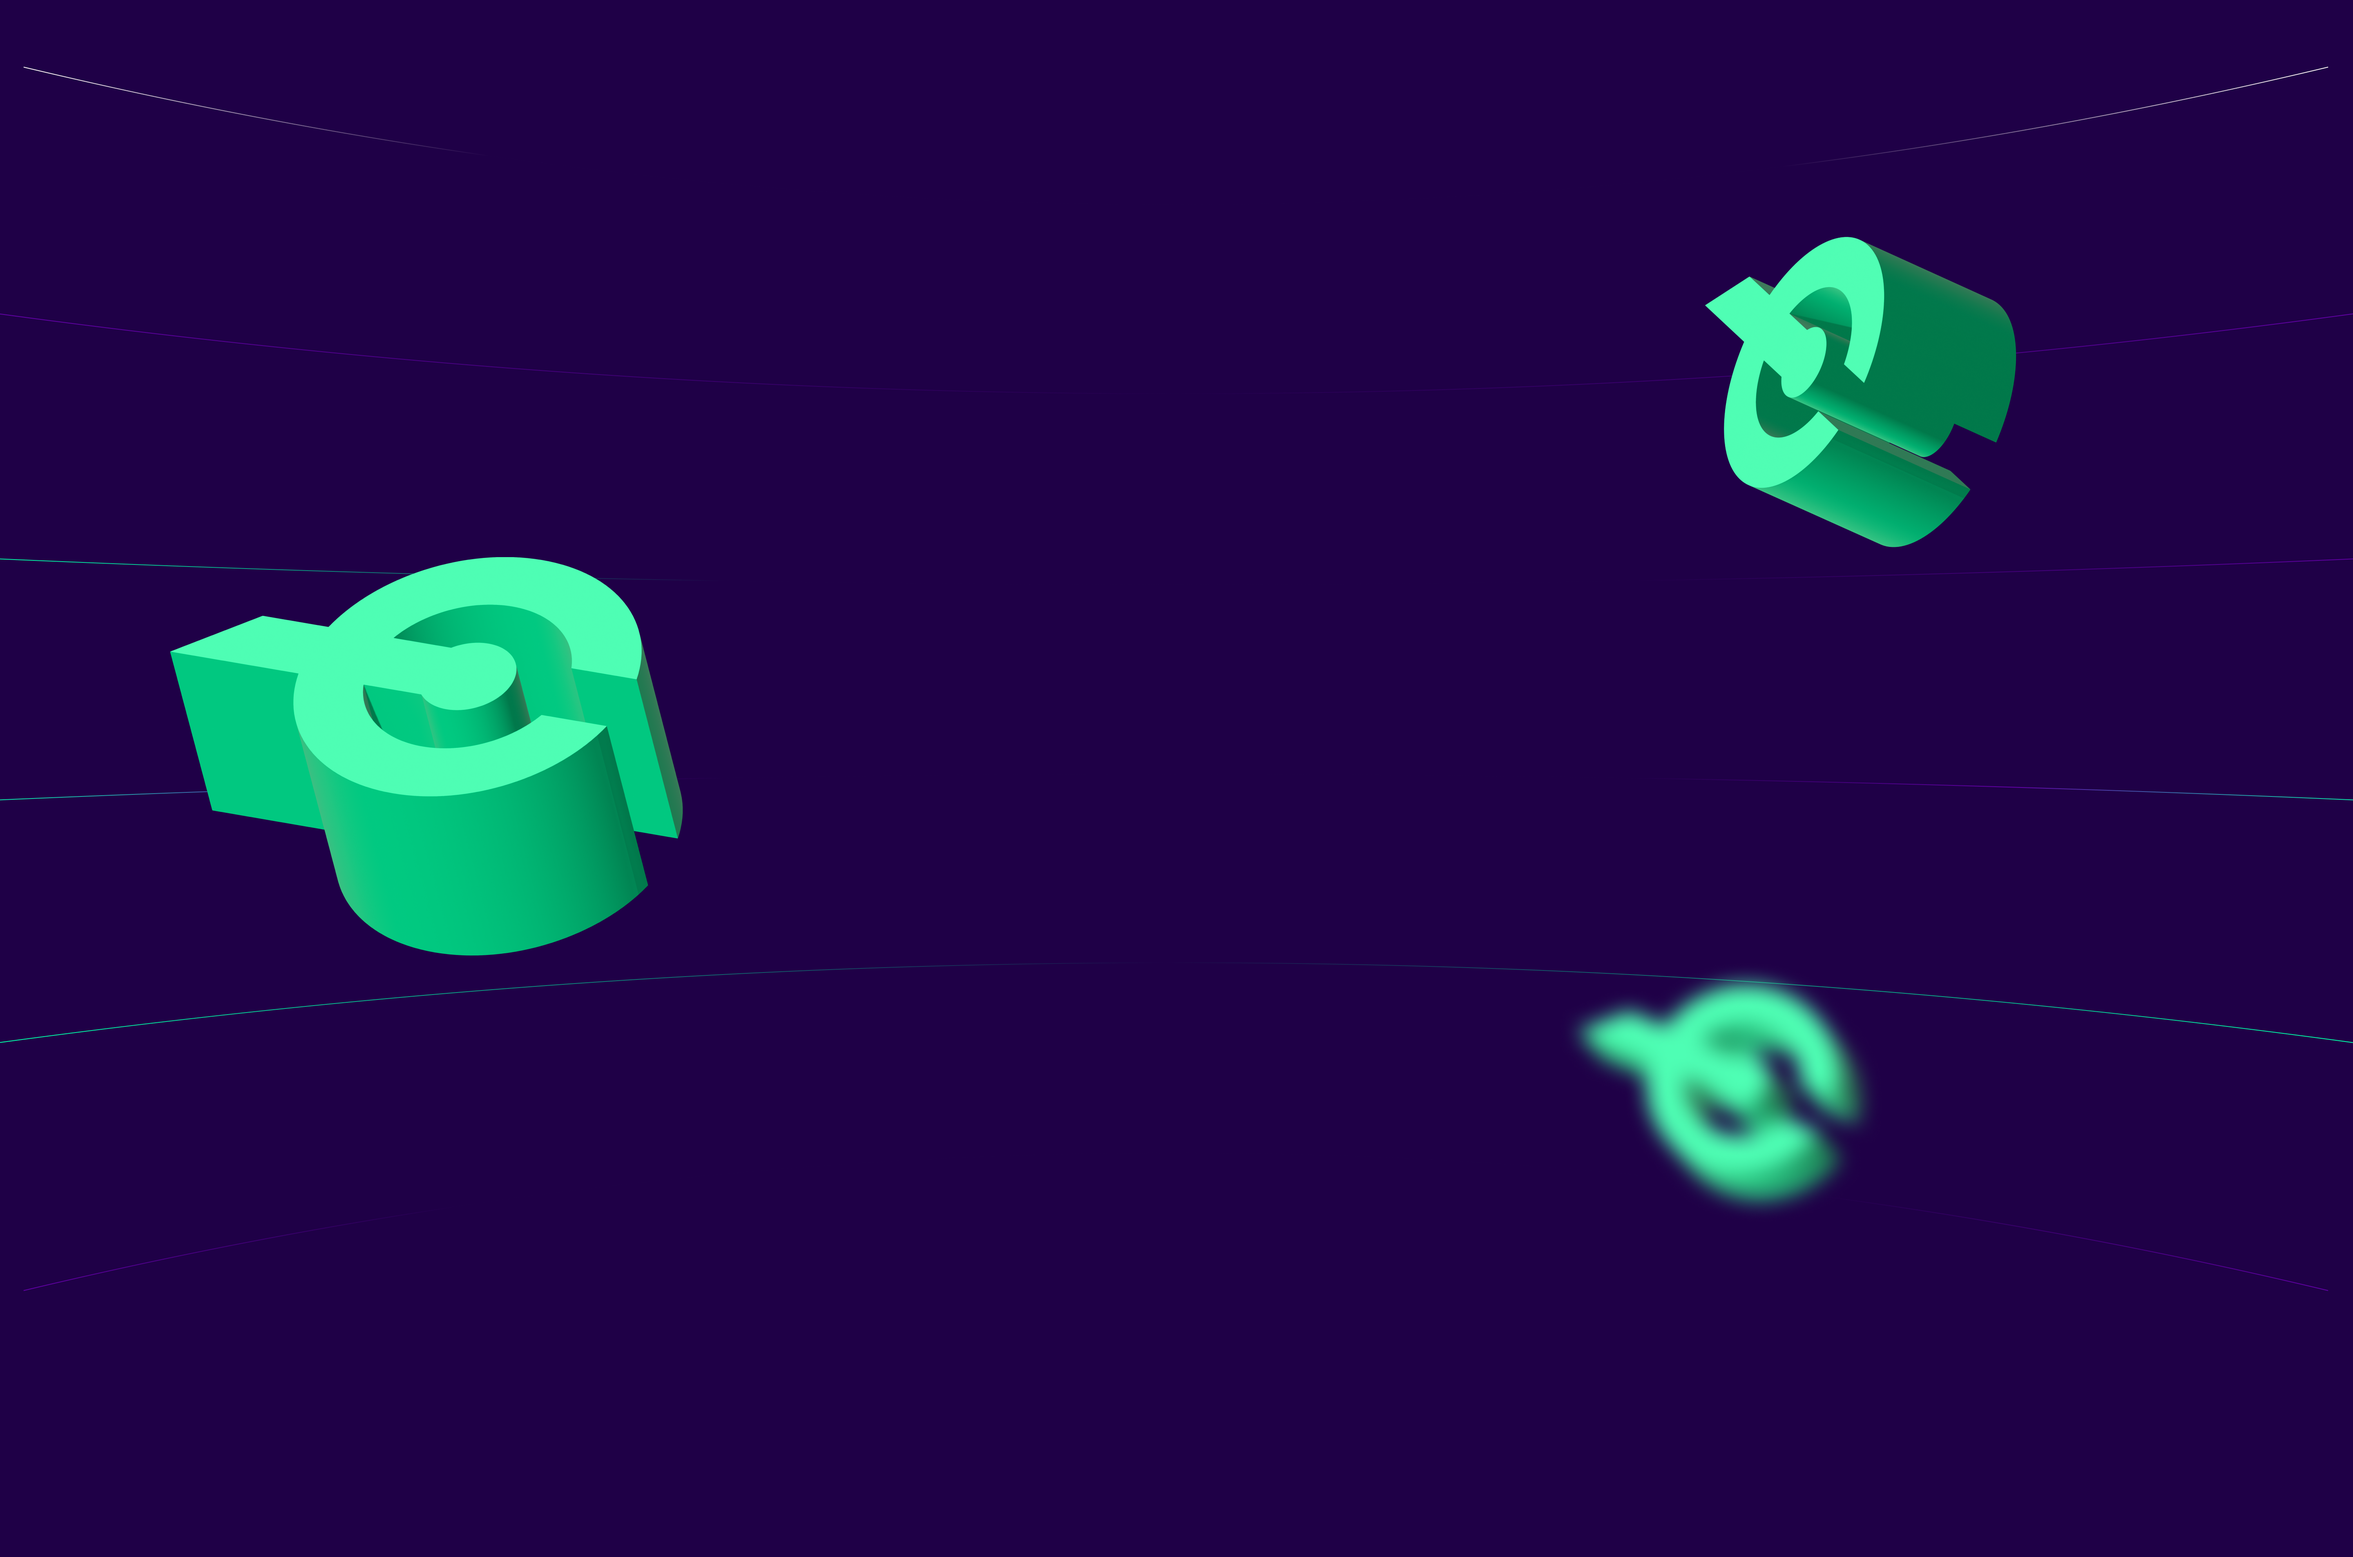
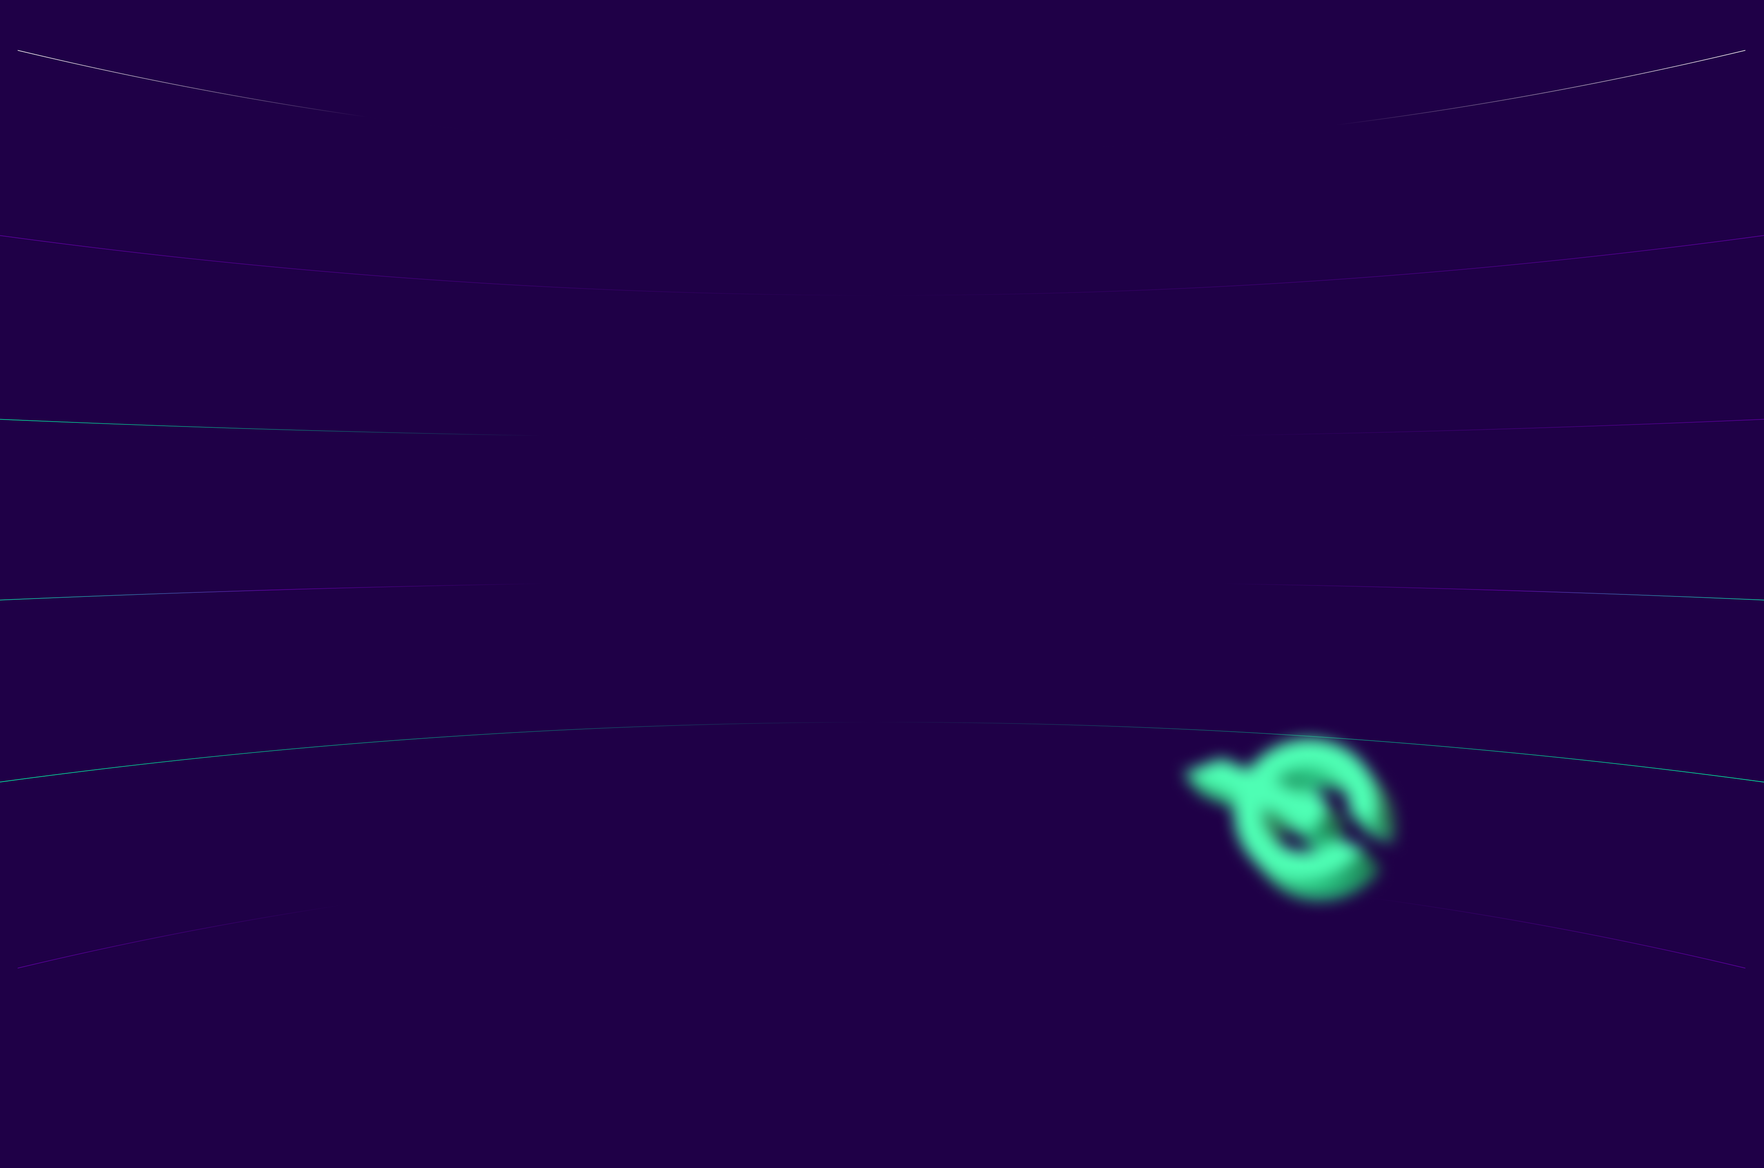
feat: finalized build

Changed region(s): [[0.0625, 0.3424, 0.3125, 0.6226], [0.7188, 0.1556, 0.875, 0.3736]]

diff --git a/src/App.css b/src/App.css
@@ -34,7 +34,6 @@ body {
   background: url("./images/background.png");
   background-position: center;
   background-size: cover;
-  height: 100%;
   background-repeat: no-repeat;
 }
 
@@ -95,6 +94,20 @@ body {
   text-align: center;
   z-index: 9999 !important;
 }
+
+.leftImage {
+  position: absolute;
+  left: -280px;
+  top: -50px;
+  transform: scale(0.25);
+}
+
+.rightImage {
+  position: absolute;
+  right: -160px;
+  top: 10%;
+  transform: scale(0.3);
+}
 .heroSection_container .header {
   color: white;
   font-size: 72px;
@@ -136,6 +149,7 @@ body {
   font-family: "Gilroy-bold", sans-serif;
   height: 65px;
   padding: 1rem;
+  font-size: 16px;
   margin-right: 30px;
   cursor: pointer;
   text-align: center;
@@ -154,6 +168,7 @@ body {
   align-items: center;
   font-family: "Gilroy-bold", sans-serif;
   height: 65px;
+  font-size: 16px;
   padding: 10px 60px;
   cursor: pointer;
   flex-direction: row;
@@ -269,17 +284,16 @@ body {
     transform: scale(0.4);
     bottom: 10%;
   }
+  .leftImage {
+    left: -350px;
+  }
   .footer_container {
     padding: 1rem;
   }
 }
 @media screen and (max-width: 760px) {
-  .left_image {
-    left: -26%;
-    top: 0%;
-    transform: scale(0.4);
-  }
-  .right_image {
+  .rightImage,
+  .leftImage {
     display: none;
   }
   .blurry_image {
@@ -303,12 +317,8 @@ body {
     padding: 10px 40px;
   }
 }
+
 @media screen and (max-width: 540px) {
-  .left_image {
-    left: -34%;
-    top: 0%;
-    transform: scale(0.3);
-  }
   .middle_content {
     line-height: 25px;
     padding: 3rem;
@@ -319,20 +329,27 @@ body {
   .learnMore {
     width: 120px;
     height: 45px;
-    font-family: "Gilroy-bold", sans-serif;
+    font-size: 12.24px;
+    font-weight: 700;
+    line-height: 15.16px;
+    font-family: "Gilroy-medium", sans-serif;
   }
   .joinTelegram {
     width: 150px;
     height: 45px;
     padding: 0;
-    font-family: "Gilroy-bold", sans-serif;
+    font-size: 12.24px;
+    font-weight: 700;
+    line-height: 15.16px;
+    font-family: "Gilroy-medium", sans-serif;
   }
 }
 @media screen and (max-width: 400px) {
-  .left_image {
-    left: -54%;
-    top: 0%;
-    transform: scale(0.3);
+  body {
+    background: url("./images/mobile_background.png");
+    background-size: cover;
+    background-repeat: no-repeat;
+    background-color: rgba(31, 0, 71, 1);
   }
   .middle_content {
     line-height: 25px;
@@ -341,12 +358,6 @@ body {
   }
   .blurry_image {
     right: -20%;
-  }
-  body {
-    background: url("./images/mobile_background.png");
-    background-size: contain;
-    background-repeat: no-repeat;
-    background-color: rgba(31, 0, 71, 1);
   }
 }
 

diff --git a/src/components/Footer.tsx b/src/components/Footer.tsx
@@ -4,40 +4,42 @@ import { motion } from "framer-motion";
 
 const Footer = () => {
   return (
-    <motion.div
-      initial={{ opacity: 0 }}
-      animate={{ opacity: 1 }}
-      transition={{ duration: 2 }}
-    >
-      <div className="footer_container">
-        <div className="footer_contents">
-          <div>
-            <img
-              className="footer_logo"
-              src={footer_logo}
-              width={200}
-              height={50}
-              alt="footerImage"
-            />
-          </div>
-          <div className="footerRights">
-            2024 Collat Finance. All Right Reserved
-          </div>
-          <div className="footer_images">
+    <div className="footer_container">
+      <div className="footer_contents">
+        <div>
+          <img
+            className="footer_logo"
+            src={footer_logo}
+            width={200}
+            height={50}
+            alt="footerImage"
+          />
+        </div>
+        <div className="footerRights">
+          2024 Collat Finance. All Right Reserved
+        </div>
+        <div className="footer_images">
+          <a href="https://twitter.com/CollatFinance">
             <img src={twitter} alt="twitter" width={30} height={30} />
-            &nbsp;&nbsp;&nbsp;&nbsp;
+          </a>
+          &nbsp;&nbsp;&nbsp;&nbsp;
+          <a href="https://t.me/collatfinance">
             <img src={telegram} alt="telegram" width={30} height={30} />
-            &nbsp;&nbsp;&nbsp;&nbsp;
+          </a>
+          &nbsp;&nbsp;&nbsp;&nbsp;
+          <a href="https://discord.gg/QrtvFgGn7r">
             <img src={discord} alt="discord" width={30} height={23} />
-            &nbsp;&nbsp;&nbsp;&nbsp;
+          </a>
+          &nbsp;&nbsp;&nbsp;&nbsp;
+          <a href="https://collatfinance.medium.com/">
             <img src={medium} alt="medium" width={30} height={20} />
-          </div>
-          <div className="footerRights2">
-            2024 Collat Finance. All Right Reserved
-          </div>
+          </a>
+        </div>
+        <div className="footerRights2">
+          2024 Collat Finance. All Right Reserved
         </div>
       </div>
-    </motion.div>
+    </div>
   );
 };
 

diff --git a/src/components/HeroSection.tsx b/src/components/HeroSection.tsx
@@ -13,7 +13,7 @@ const HeroSection = () => {
         <div className="hero_container">
           <motion.div
             initial={{ opacity: 0, y: 50 }}
-            animate={{ opacity: 1, y: 0, type: "spring" }}
+            animate={{ opacity: 1, y: 0 }}
             transition={{ duration: 2 }}
           >
             <h1 className="header">
@@ -38,21 +38,25 @@ const HeroSection = () => {
         </div>
         <div className="button_container">
           <motion.div
-            initial={{ opacity: 0, x: -50 }}
-            animate={{ opacity: 1, x: 0, type: "spring" }}
+            initial={{ y: 50 }}
+            animate={{ y: 0 }}
             transition={{ duration: 2.5 }}
           >
-            <button className="learnMore">Learn More</button>
+            <a href="https://docs.collat.finance">
+              <button className="learnMore">Learn More</button>
+            </a>
           </motion.div>
           <motion.div
-            initial={{ opacity: 0, x: 50 }}
-            animate={{ opacity: 1, x: 0, type: "spring" }}
-            transition={{ duration: 2.5 }}
+            initial={{ y: 80 }}
+            animate={{ y: 0 }}
+            transition={{ duration: 2.5, delay: 0.3 }}
           >
-            <button className="joinTelegram">
-              <p>Join Telegram</p>&nbsp; &nbsp;
-              <img src={telegram} alt="telegram" height={25} width={25} />
-            </button>
+            <a href="https://t.me/collatfinance">
+              <button className="joinTelegram">
+                <p>Join Telegram</p>&nbsp; &nbsp;
+                <img src={telegram} alt="telegram" height={25} width={25} />
+              </button>
+            </a>
           </motion.div>
         </div>
       </div>

diff --git a/src/App.tsx b/src/App.tsx
@@ -1,10 +1,28 @@
 import React from "react";
 import "./App.css";
 import { Footer, HeroSection, Navbar } from "./components";
+import { left_hero_logo, right_hero_logo } from "./images";
+import { motion } from "framer-motion";
 
 function App() {
   return (
     <div className="app">
+      <motion.div
+        animate={{ y: [0, -30, 0] }}
+        transition={{ duration: 8, repeat: Infinity, stiffness: 10 }}
+      >
+        <div className="leftImage">
+          <img src={left_hero_logo} alt="leftImage" />
+        </div>
+      </motion.div>
+      <motion.div
+        animate={{ rotate: [0, 10, 0] }}
+        transition={{ duration: 8, repeat: Infinity, stiffness: 10 }}
+      >
+        <div className="rightImage">
+          <img src={right_hero_logo} alt="leftImage" />
+        </div>
+      </motion.div>
       <Navbar />
       <HeroSection />
       <Footer />
